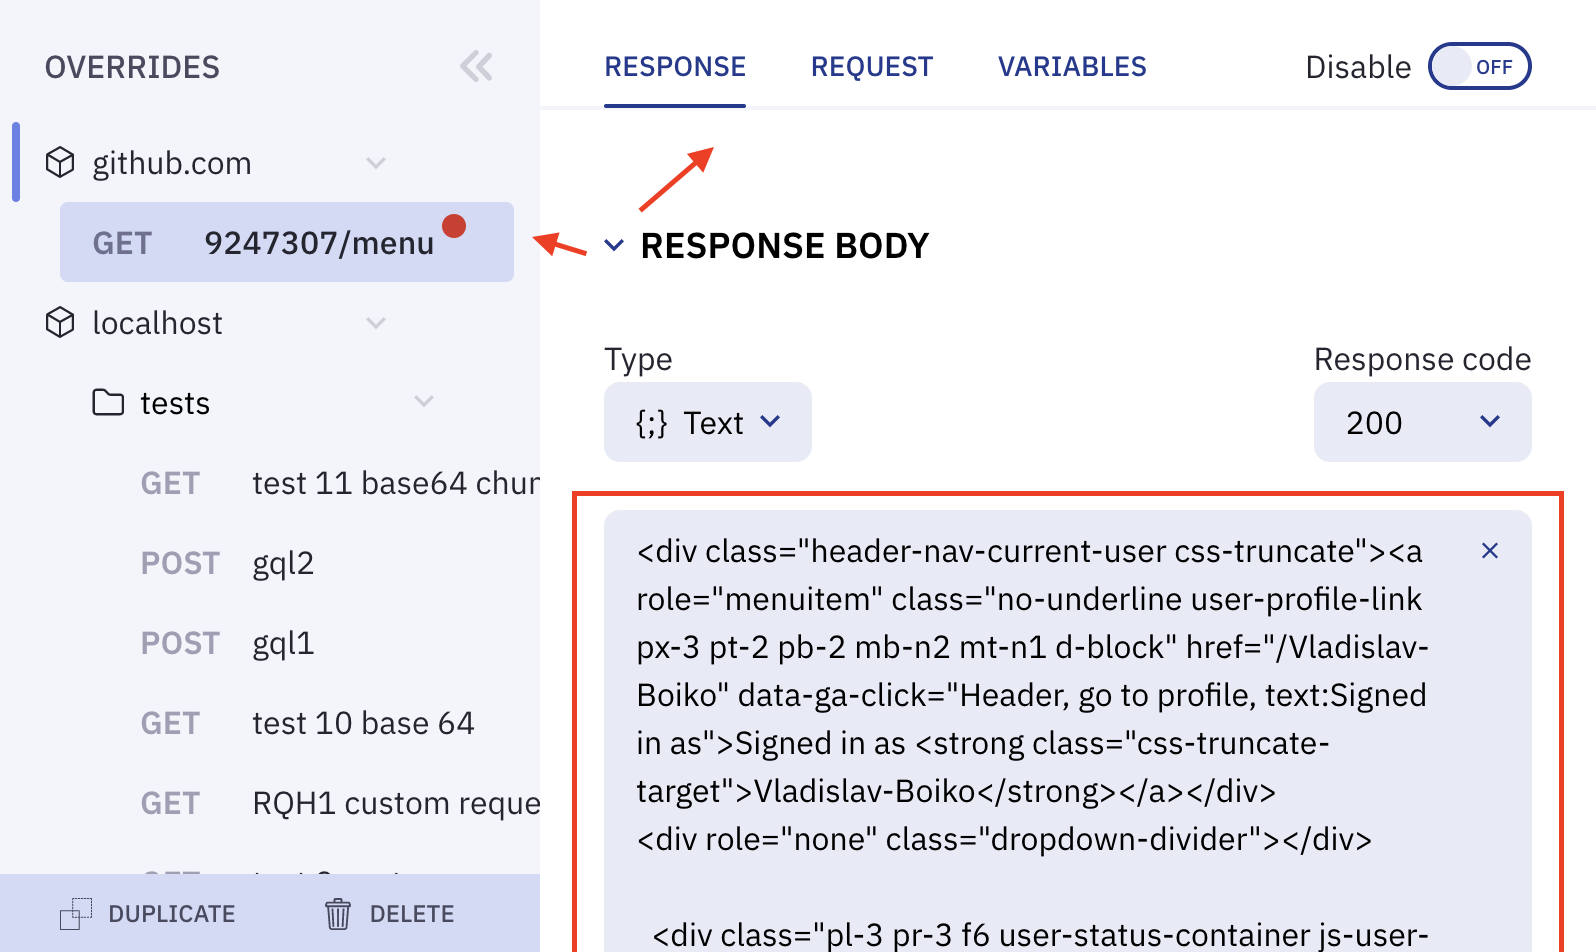
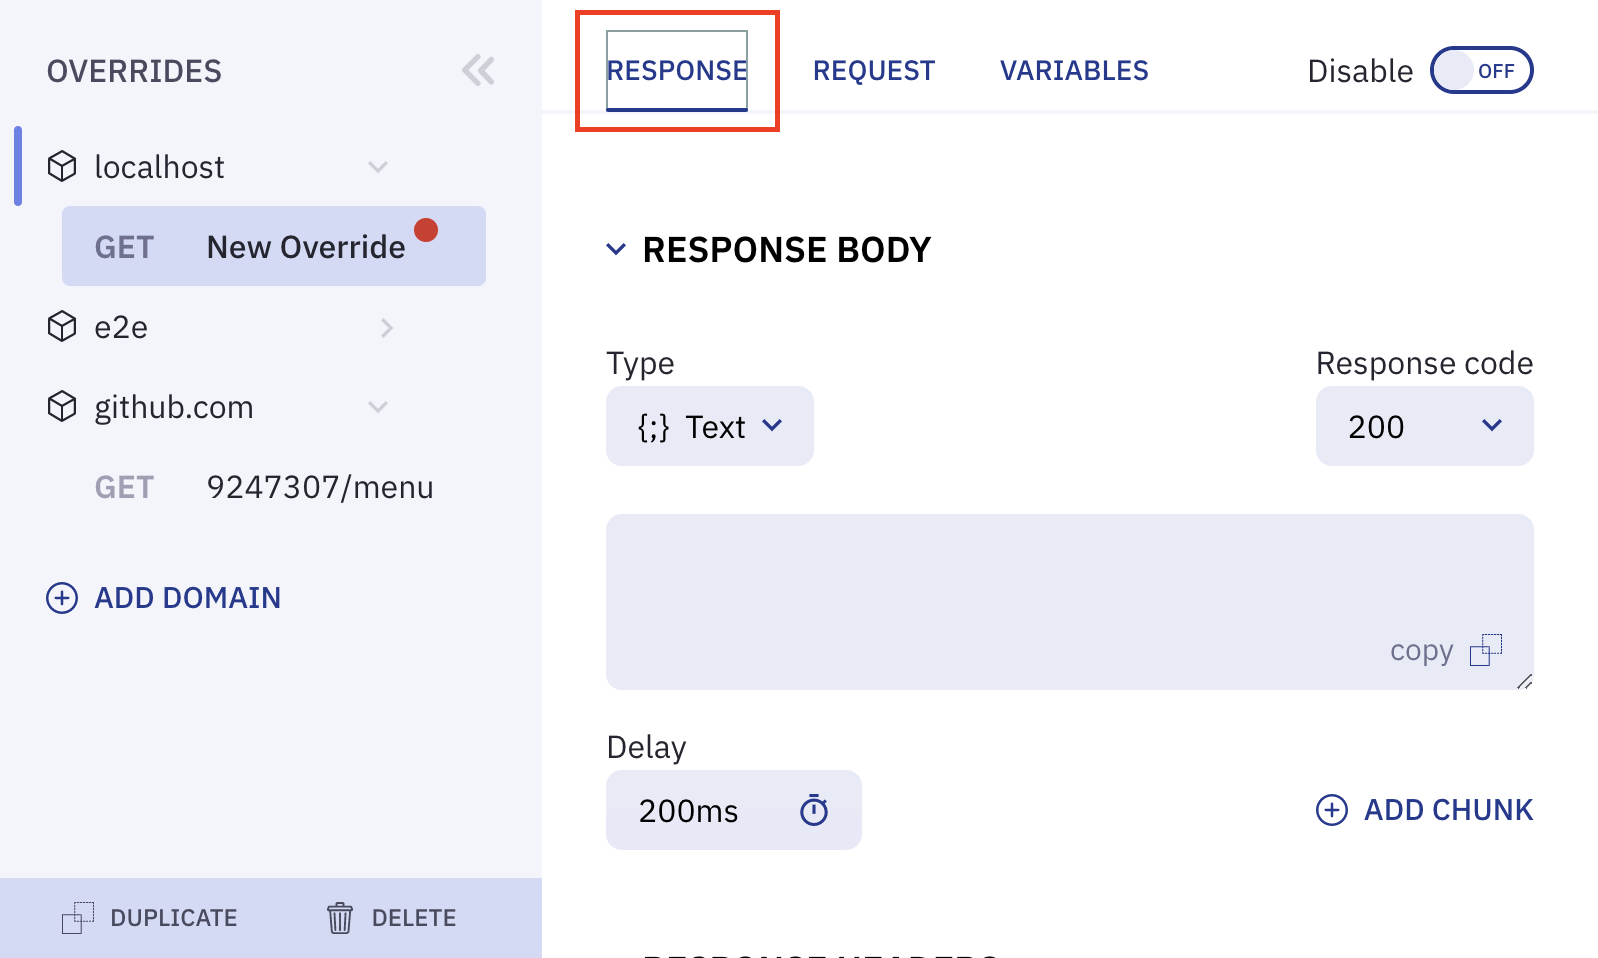
feat (documentation): creating a stand alone override

diff --git a/README.md b/README.md
@@ -2,6 +2,13 @@
 
 Replace fetch, XMLHttpRequest, AJAX responses of any website on the fly without leaving the browser!
 
+Table of contents:
+
+- [Quick start](#Quick-start)
+- [Overriding responses](#Overriding-responses)
+  - [Overriding an existing request](#Overriding-an-existing-request)
+  - [Creating a new Override](#Creating-a-new-Override)
+
 ## 🚀 Quick start
 
 First let us activate the extension on your desired web page:
@@ -12,10 +19,12 @@ First let us activate the extension on your desired web page:
 
    \
     ![Extension icon](/docs/img/extension_icon.png)
+
 4. Click on the Enable button:
 
    \
    ![Enable extension](/docs/img/enable_extension.png)
+
 5. Reload the page. The extension icon shall now be blue, indicating it is enabled on this page:
 
    \
@@ -31,12 +40,12 @@ First let us activate the extension on your desired web page:
 You can either change a response of an existing request, or mock a completely new one.
 First open the the extension on the desired site ([how?](#Quick-start))
 
-> Hint:
+> 💡 **Hint** \
 > Instead of always opening browser-proxy through the extension icon, you can open it in the developer tools. To open it open the Chrome Menu in the upper-right-hand corner of the browser window and select More Tools > Developer Tools, or use Option + ⌘ + J (on macOS), or Shift + CTRL + J (on Windows/Linux). There you shall be a tab 'browser-proxy', where you can access the extension.
 >
 > ![Extension in dev-tools](/docs/img/dev_tools.png)
 
-### Overriding an existing request:
+### Overriding an existing request
 
 For example we will override an item in the user-menu on github. It is loaded via fetch, when one hovers with mouse own avatar on github in the top right of the screen.
 
@@ -55,14 +64,17 @@ For example we will override an item in the user-menu on github. It is loaded vi
 
    \
     ![Choosing request](/docs/img/choosing_request.png)
+
 2. Click on the `Override` Button.
 
    \
     ![Override](/docs/img/override.png)
+
 3. The response tab of a request shall open, and there you can see the response for the fetch that loaded the menu:
 
    \
     ![Override](/docs/img/response_tab.png)
+
 4. Modify the response to have something new it in. Here we change the "Sign out" text, to a "Hello World from Browser-Proxy!" text.
 
 <table border="0" style="position: relative">
@@ -80,17 +92,80 @@ For example we will override an item in the user-menu on github. It is loaded vi
 
    \
     ![Save](/docs/img/save.png)
+
 6. Resend the request to get the new response. In our case we have to reload the page and to click the avatar once again:
-\
-<img alt="Github menu overriden" src="./docs/img/gihub_menu_overriden.png" height="450px"/>
+   \
+   <img alt="Github menu overriden" src="./docs/img/gihub_menu_overriden.png" height="450px"/>
 
-### Creating a new Override:
+### Creating a new Override
 
-1. Choose the site on which you want to do the override.
+#### **Matching the request to be overriden**
+
+1. Go to a website where you want to create an override.
 2. Click `add override`
-3. In the response
 
-## Using Rules and RegExp to match requests
+   \
+    ![Add override](/docs/img/add_override.png)
+
+3. Go to request tab of the created override
+
+   \
+    ![Request tab](/docs/img/request_tab.png)
+
+4. There give in the URL of a request you want to override:
+
+   \
+    ![Url](/docs/img/url.png)
+
+5. If you are sending some request body specify it in the request body section:
+
+   \
+    ![Request body](/docs/img/request_body.png)
+
+6. If you are setting some request headers, also specify them in the Request headers section:
+
+   \
+    ![Request headers](/docs/img/request_headers.png)
+
+> 💡 **Hint** \
+> If you want some generic matching of the request parameters, in URL, body or headers you can use RegEp based variables mechanism that is described [in the next section](#Using-variables-for-RegExp-matching).
+
+#### **Changing the response of a request**
+
+1. Go to the response tab:
+
+   \
+    ![Response tab](/docs/img/response_tab.png)
+
+2. Modify the response you wat to get:
+
+   \
+    ![Response text body](/docs/img/response_text_body.png)
+
+3. You can also change the response code and the delay after which the response will be returned:
+
+   \
+    ![Response code and delay](/docs/img/response_code_and_delay.png)
+
+4. If you want to return a file, choose the file return type, and either upload a file, or type in its bytes as a base64 encoded string.
+
+   \
+    ![File response](/docs/img/file_response.png)
+
+5. You can also add chunks to response body with separate delays. Then the overriden request will receive the response sequentially in this chunks. You can also join all chunks into one response.
+
+   \
+    ![Adding chunk](/docs/img/add_chunk.png)
+
+6. Define the response headers you want to receive:
+
+   \
+    ![Response headers](/docs/img/response_headers.png)
+
+> 💡 **Hint** \
+> If you want to use some part of a request as part of the response you can use the variable mechanism, to capture what use sent, and use it in the response. It can as well be use in the response body as well as in the response headers. See usage of variables [in the next section](#Using-variables-for-RegExp-matching).
+
+## Using variables for RegExp matching
 
 ## Import/Export and sharing overrides
 
